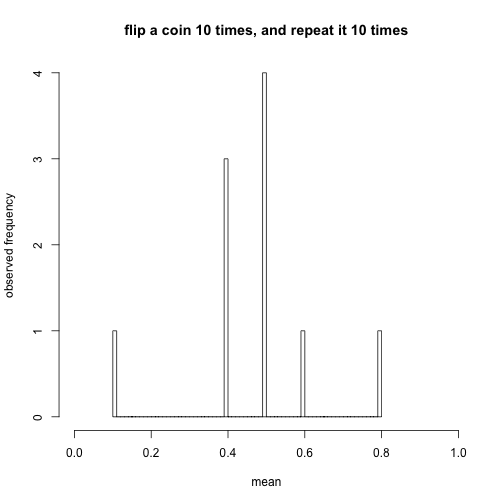
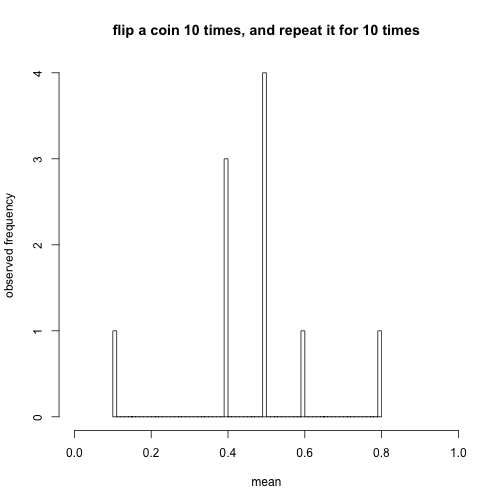
session2

Changed region(s): [[0.2083, 0.0298, 0.8333, 0.0893]]

diff --git a/Statistics2016/Session2_hypothesis_testing.md b/Statistics2016/Session2_hypothesis_testing.md
@@ -25,13 +25,13 @@ Hypothesis testing and ANOVA
 - Analysis of Variance (ANOVA)
 
 
-SD and SE (1/)
+SD and SE (1/7)
 ========================================================
 
 ![alt text](imgs/stat_sampling.png)
 
 
-SD and SE - sampling distribution for the mean (2/)
+SD and SE - sampling distribution for the mean (2/7)
 ========================================================
 
 If we flip a fair coin 10 times, what is the mean of this experiment?
@@ -72,7 +72,7 @@ showmean2
 ```
 
 
-SD and SE - sampling distribution for the mean (3/)
+SD and SE - sampling distribution for the mean (3/7)
 ========================================================
 
 If we flip a fair coin 10 times, what is the mean of this experiment?
@@ -113,10 +113,10 @@ showmean2
 ```
 ![plot of chunk unnamed-chunk-5](Session2_hypothesis_testing-figure/unnamed-chunk-5-1.png)
 
-SD and SE - sampling distribution for the mean (4/)
+SD and SE - sampling distribution for the mean (4/7)
 ========================================================
 
-What will happen if we repeat this experiment 10 times, rather than only 2 times
+What will happen if we repeat this experiment for 10 times, rather than only 2 times
 
 ```r
 set.seed(123)
@@ -128,13 +128,13 @@ for (i in 1:no.experiment){
 }
 hist(mat4plot[,1],xlim=c(0,1),breaks=100,
      xlab="mean",ylab="observed frequency",
-     main="flip a coin 10 times, and repeat it 10 times")
+     main="flip a coin 10 times, and repeat it for 10 times")
 ```
 
 ![plot of chunk unnamed-chunk-6](Session2_hypothesis_testing-figure/unnamed-chunk-6-1.png)
 
 
-SD and SE - Central limit theorem (5/)
+SD and SE - Central limit theorem (5/7)
 ========================================================
 
 Flip a coin for 10 times, and repeat it for 100 times
@@ -146,7 +146,7 @@ Flip a coin for 10 times, and repeat it for 1,000 times
 
 ![plot of chunk unnamed-chunk-8](Session2_hypothesis_testing-figure/unnamed-chunk-8-1.png)
 
-SD and SE - Central limit theorem (C.L.T.) (6/)
+SD and SE - Central limit theorem (C.L.T.) (6/7)
 ========================================================
 
 Flip a coin for 10 times, and repeat it for 1,000 times
@@ -174,7 +174,7 @@ $$
 
 
 
-SD and SE - Central limit theorem (C.L.T.) (7/)
+SD and SE - Central limit theorem (C.L.T.) (7/7)
 ========================================================
 
 Flip a coin for 10 times, and repeat it for 1,000 times
